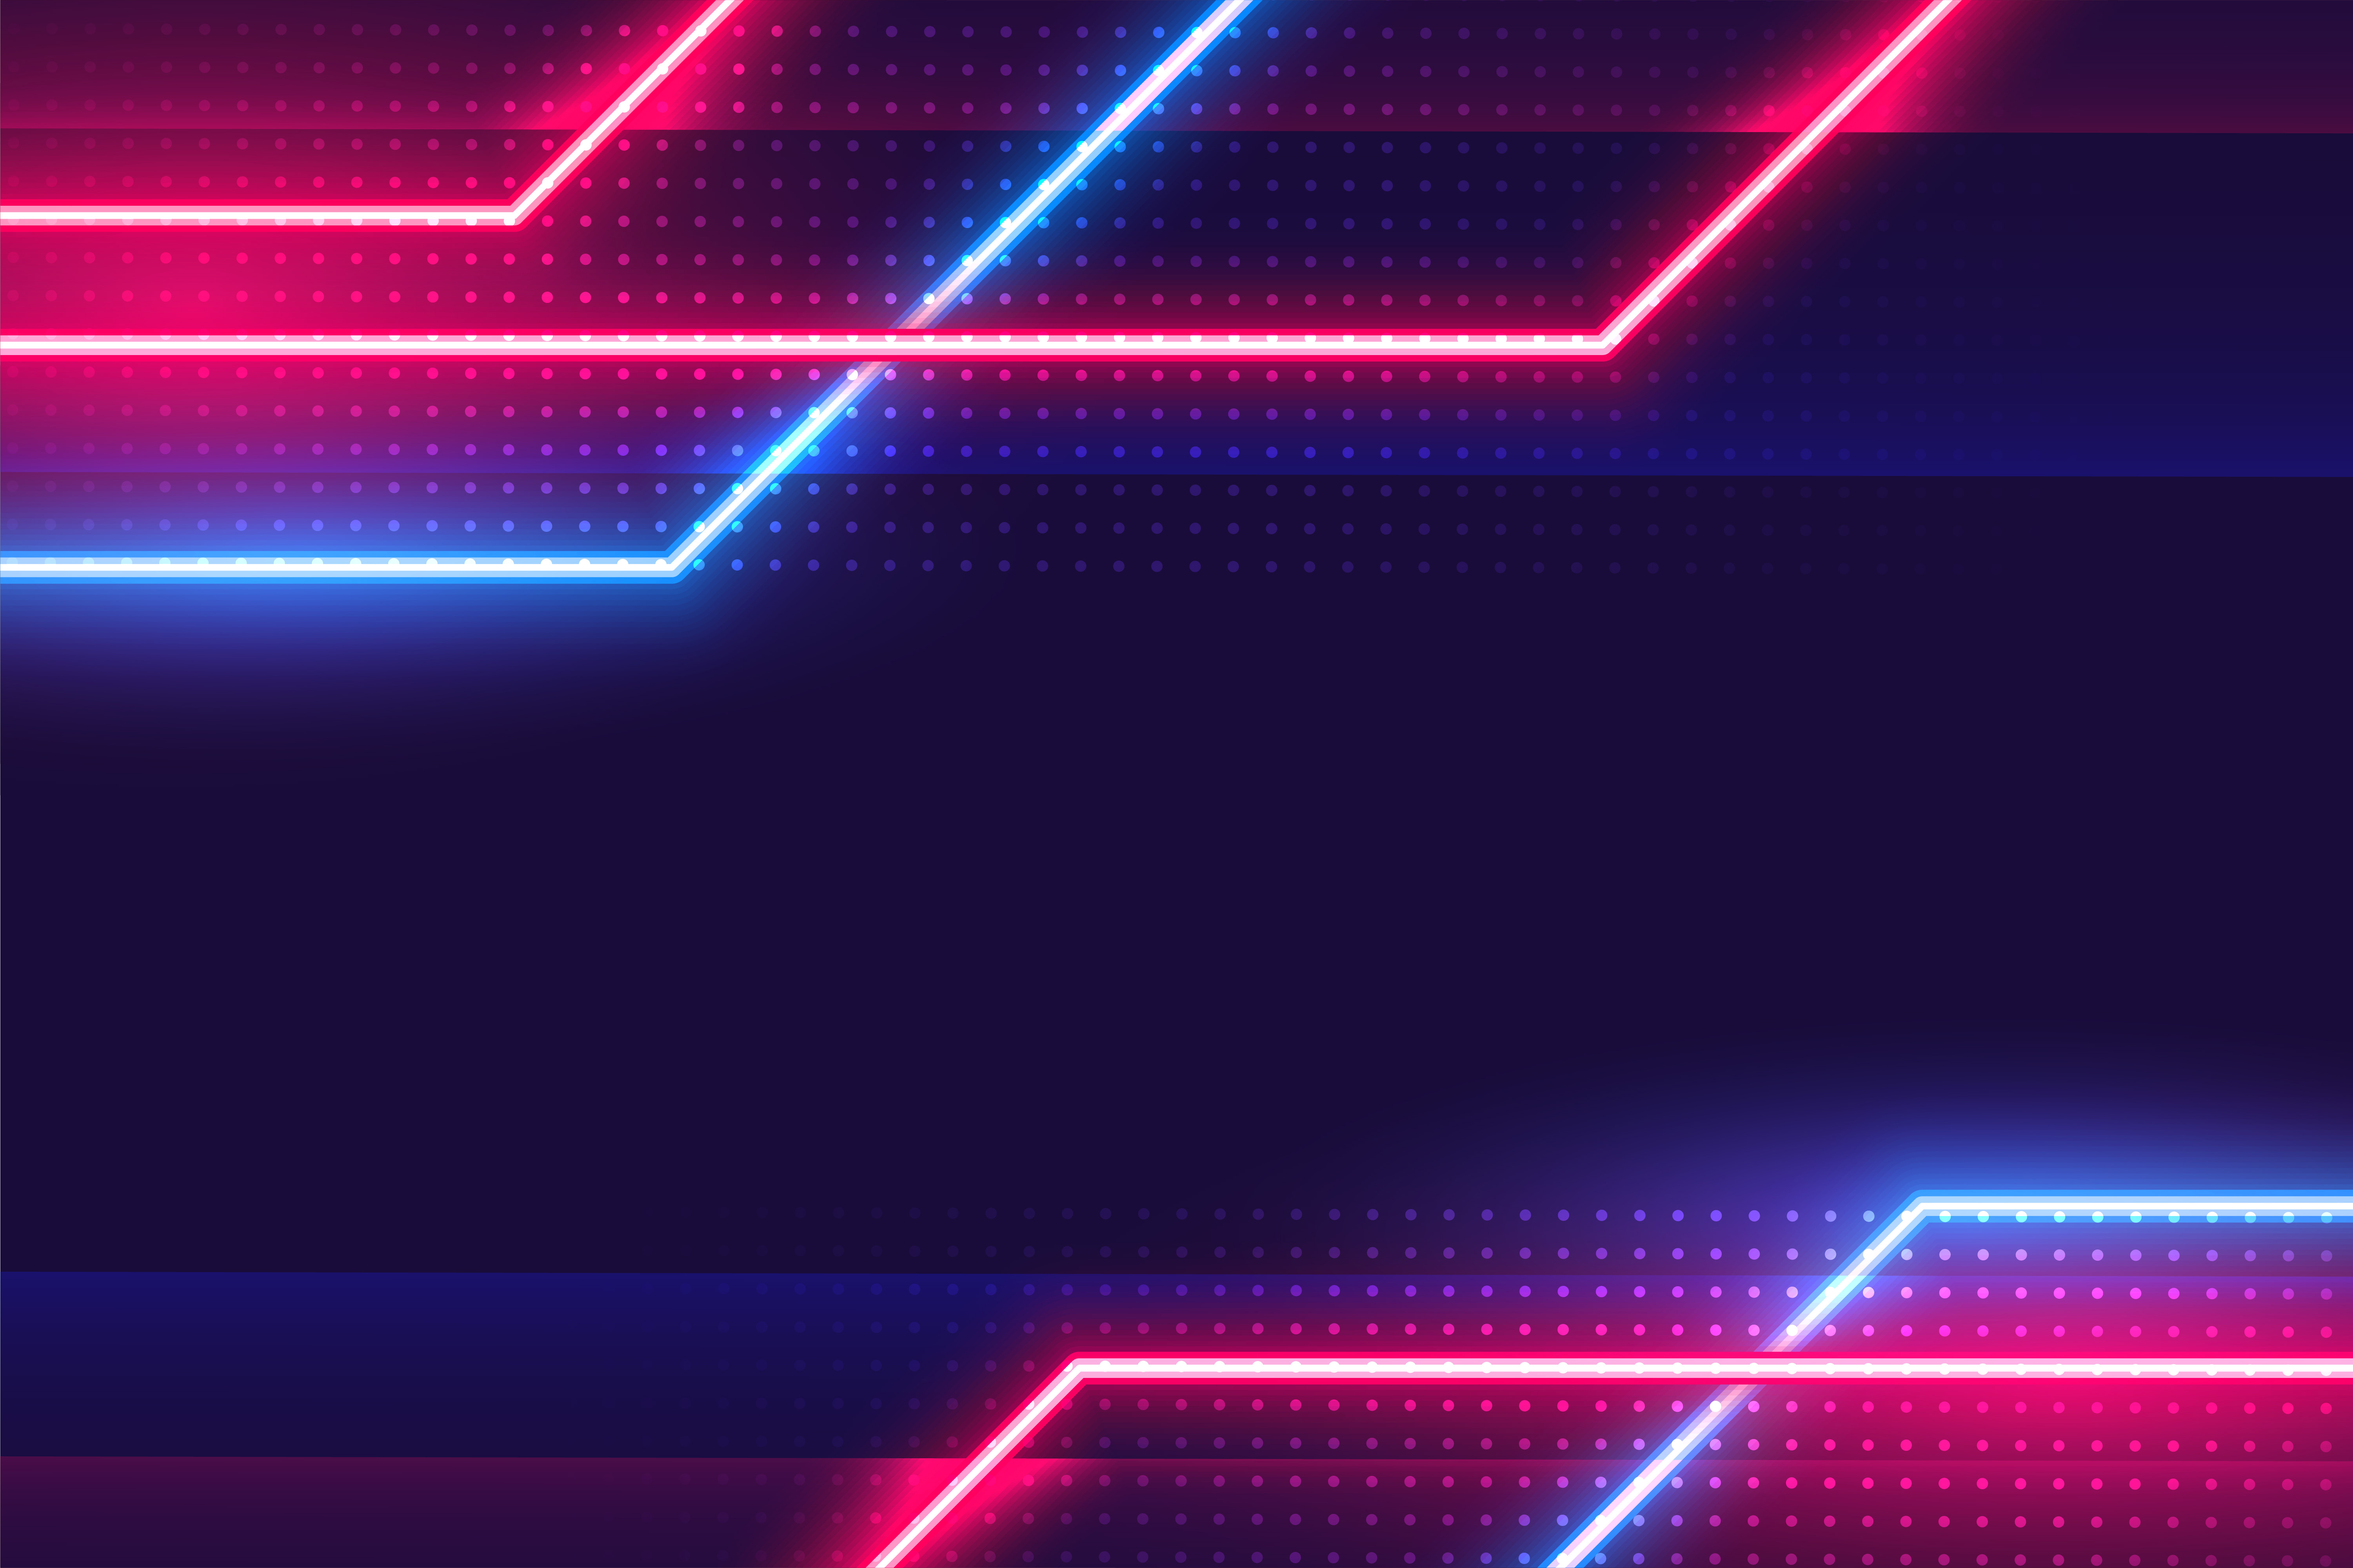
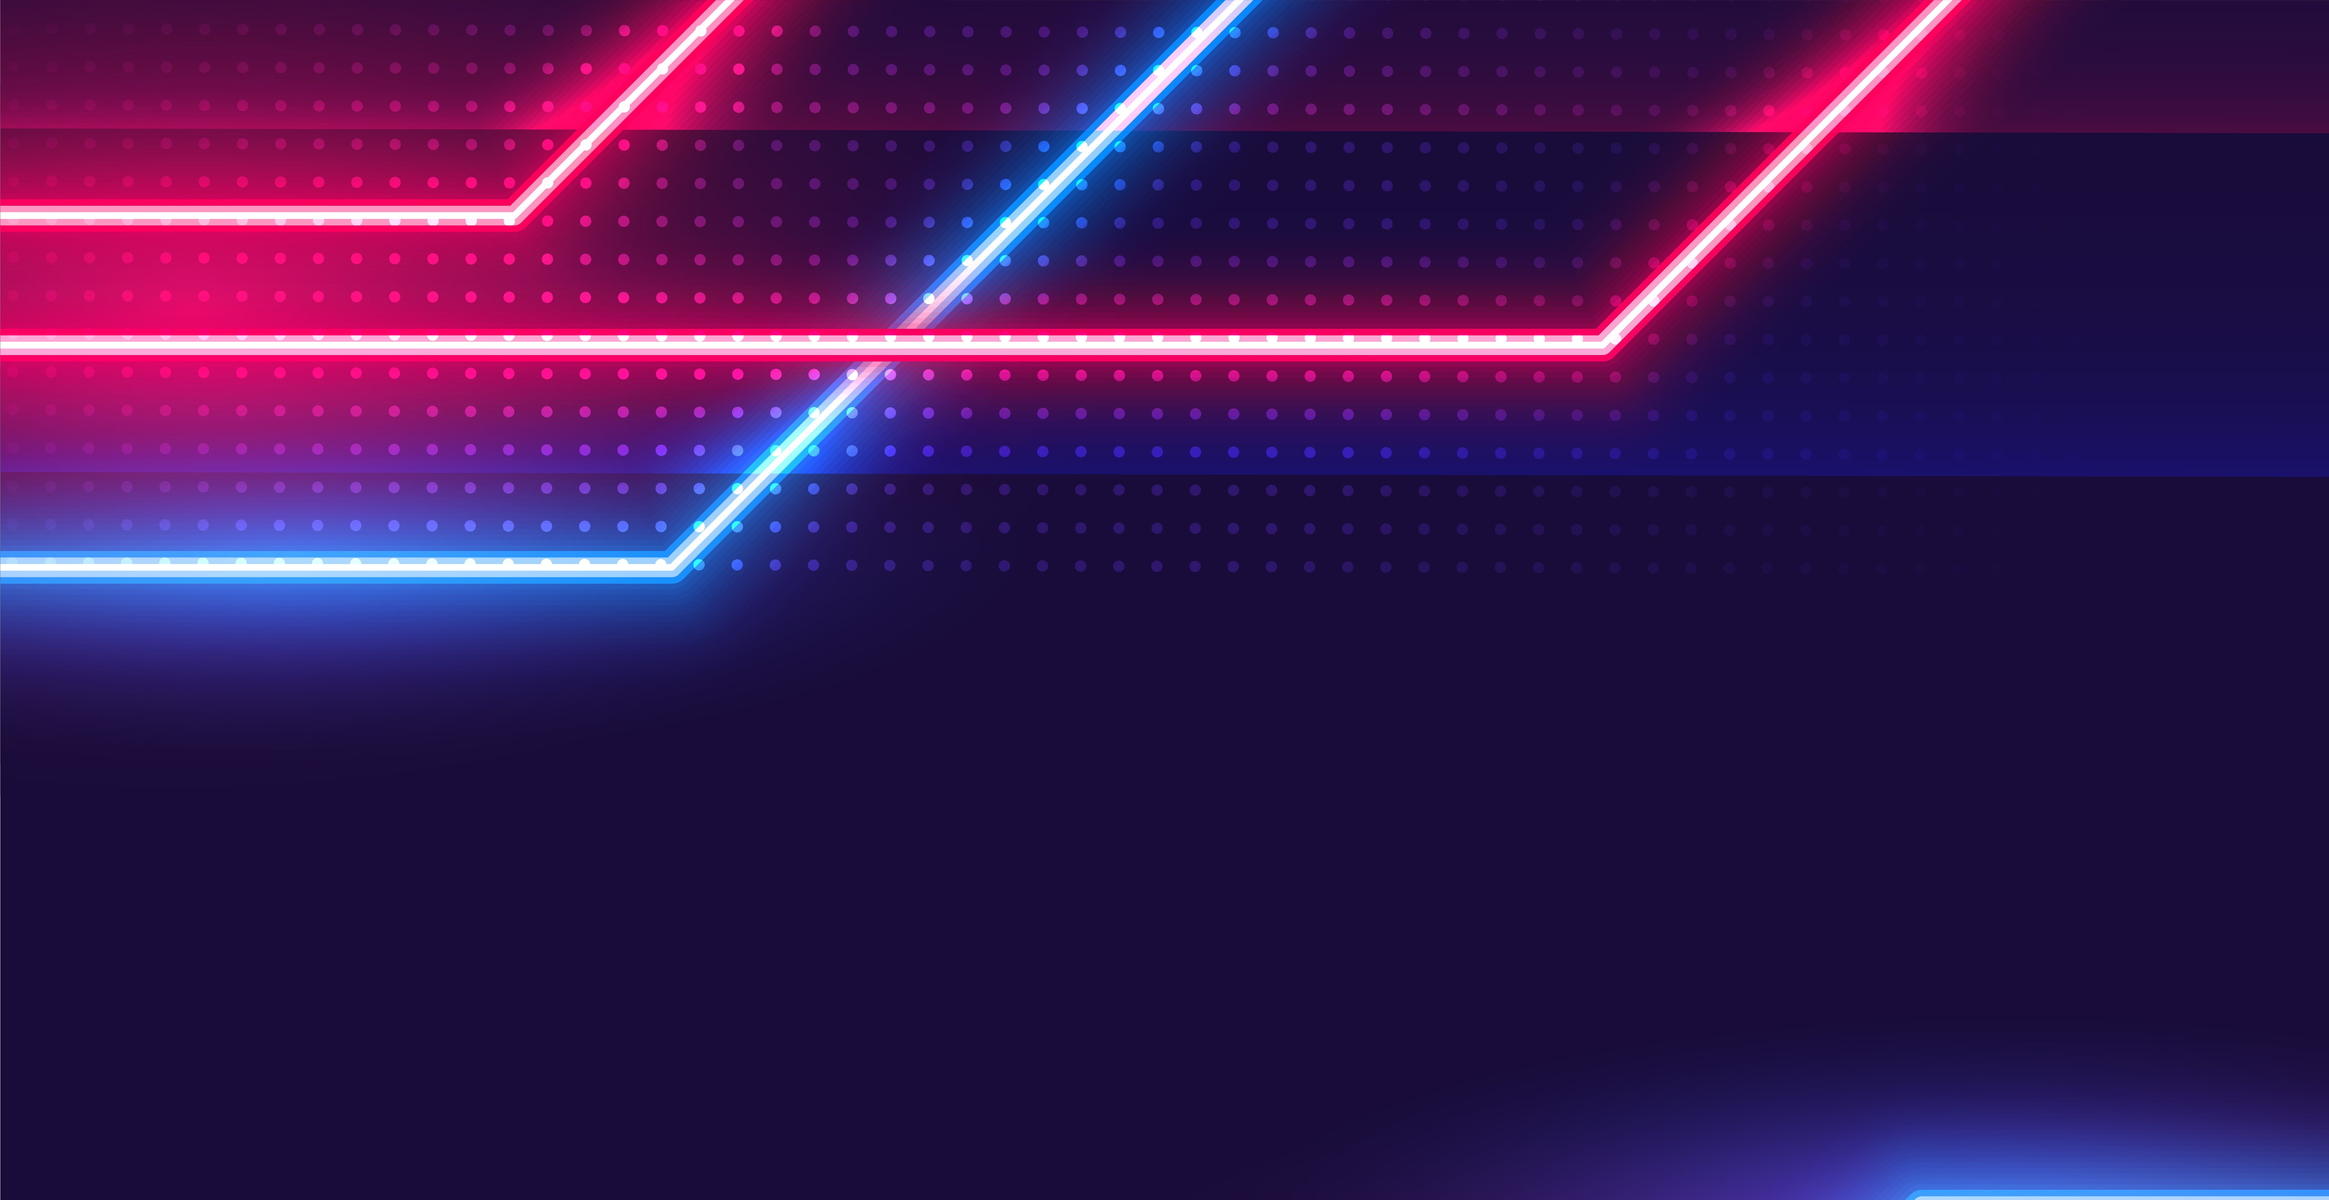
Bouton quitter

diff --git a/client/src/app/pages/game-page/game-page.component.scss b/client/src/app/pages/game-page/game-page.component.scss
@@ -1,3 +1,8 @@
+.bg-img {
+    background: url(/assets/img/Pink_ish.jpg) no-repeat center top;
+    background-size: 100vw 100vh;
+}
+
 .container {
     display: grid;
     grid-template-columns: 0.8fr 1fr 1fr 0.8fr;
@@ -8,11 +13,9 @@
         'Player Board Board Info'
         'Actions Board Board Chat'
         'Quitter Horse Horse Chat';
-    // height: auto;
-    background: url(/assets/img/Pink_ish.jpg) no-repeat center top;
-    background-size: 100vw 130vh;
-    height: 100vh;
-    width: 100vw;
+    // height: 100vh;
+    // width: 100vw;
+    // padding: 1%;
 }
 img {
     grid-area: Img;
@@ -20,15 +23,18 @@ img {
 app-info-box {
     grid-area: Info;
     padding: 1%;
+    padding-right: 2%;
 }
 
 app-chat-box {
     grid-area: Chat;
     padding: 1%;
+    padding-right: 2%;
 }
 app-board {
     grid-area: Board;
     height: fit-content;
+    padding-top: 3%;
     min-width: 50vw;
 }
 
@@ -42,25 +48,33 @@ app-horse {
 app-player-info {
     grid-area: Player;
     padding: 1%;
+    padding-left: 2%;
 }
 
 button {
-    margin: 2%;
+    padding: 2%;
 }
-.button {
+.actions {
     grid-area: Actions;
     display: flex;
     justify-content: flex-start;
     align-self: center;
+    padding-left: 2%;
+    button {
+        margin-left: 5%;
+    }
 }
 
 .abandonner {
     grid-area: Quitter;
-    background-color: var(--error);
-    width: 60%;
     display: flex;
     justify-content: center;
     align-self: center;
     align-items: center;
-    padding: 1%;
+    padding-left: 2%;
+
+    button {
+        width: 60%;
+        background-color: var(--error);
+    }
 }

diff --git a/client/src/app/pages/game-page/game-page.component.html b/client/src/app/pages/game-page/game-page.component.html
@@ -1,12 +1,17 @@
-<div class="container">
-    <img src="/assets/img/logoWhite.png" width="200" height="50" alt="Logo Scrabble" />
-    <app-player-info></app-player-info>
-    <app-info-box></app-info-box>
-    <app-chat-box></app-chat-box>
-    <app-board></app-board>
-    <app-horse></app-horse>
-    <div class="button">
-        <button class="passer" mat-raised-button color="accent" [disabled]="!isItMyTurn" (click)="passer()">Passer</button>
+<div class="bg-img">
+    <div class="container">
+        <img src="/assets/img/logoWhite.png" width="200" height="50" alt="Logo Scrabble" />
+        <app-player-info></app-player-info>
+        <app-info-box></app-info-box>
+        <app-chat-box></app-chat-box>
+        <app-board></app-board>
+        <app-horse></app-horse>
+        <div class="actions">
+            <button mat-raised-button color="accent" [disabled]="!isItMyTurn" (click)="passer()">Passer</button>
+        </div>
+        <div class="abandonner">
+            <button mat-raised-button [routerLink]="['/home']" (click)="abandonner()" *ngIf="!isEndOfGame">Abandonner la partie</button>
+            <button mat-raised-button [routerLink]="['/home']" (click)="abandonner()" *ngIf="isEndOfGame">Quitter</button>
+        </div>
     </div>
-    <button class="abandonner" mat-raised-button [routerLink]="['/home']" (click)="abandonner()">Abandonner la partie</button><br />
 </div>

diff --git a/client/src/app/pages/game-page/board/board.component.html b/client/src/app/pages/game-page/board/board.component.html
@@ -1,17 +1,16 @@
-<div class="border">
-    <div #ScrabbleBoard class="boardContainer">
-        <mat-grid-list cols="16" gutterSize="1.5px" rowHeight="1:1">
-            <mat-grid-tile></mat-grid-tile>
-            <mat-grid-tile *ngFor="let column of board.grid; let i = index">{{ i + 1 }}</mat-grid-tile>
-            <div *ngFor="let row of board.grid; let i = index">
-                <mat-grid-tile>{{ convertASCIIToChar(i) }}</mat-grid-tile>
-                <mat-grid-tile *ngFor="let item of row" class="grid" [style]="getFont()">
-                    <app-tile [tile]="item"></app-tile>
-                </mat-grid-tile>
-            </div>
-        </mat-grid-list>
-    </div>
+<div #ScrabbleBoard class="boardContainer">
+    <mat-grid-list cols="16" gutterSize="1.5px" rowHeight="1:1">
+        <mat-grid-tile></mat-grid-tile>
+        <mat-grid-tile *ngFor="let column of board.grid; let i = index">{{ i + 1 }}</mat-grid-tile>
+        <div *ngFor="let row of board.grid; let i = index">
+            <mat-grid-tile>{{ convertASCIIToChar(i) }}</mat-grid-tile>
+            <mat-grid-tile *ngFor="let item of row" class="grid" [style]="getFont()">
+                <app-tile [tile]="item"></app-tile>
+            </mat-grid-tile>
+        </div>
+    </mat-grid-list>
 </div>
+
 <div class="zoomPolice">
     <span class="fontSizeValue">Taille police</span>
     <mat-slider

diff --git a/client/src/app/pages/game-page/game-page.component.ts b/client/src/app/pages/game-page/game-page.component.ts
@@ -1,4 +1,4 @@
-import { Component } from '@angular/core';
+import { Component, OnInit } from '@angular/core';
 import { Router } from '@angular/router';
 import { ActionValidatorService } from '@app/GameLogic/actions/action-validator.service';
 import { PassTurn } from '@app/GameLogic/actions/pass-turn';
@@ -10,7 +10,7 @@ import { GameManagerService } from '@app/GameLogic/game/games/game-manager.servi
     templateUrl: './game-page.component.html',
     styleUrls: ['./game-page.component.scss'],
 })
-export class GamePageComponent {
+export class GamePageComponent implements OnInit {
     constructor(private gameManager: GameManagerService, public info: GameInfoService, private avs: ActionValidatorService, private router: Router) {
         try {
             this.gameManager.startGame();
@@ -18,7 +18,9 @@ export class GamePageComponent {
             this.router.navigate(['/']);
         }
     }
-
+    ngOnInit() {
+        document.body.classList.add('bg-img');
+    }
     abandonner(): void {
         this.gameManager.stopGame();
     }

diff --git a/client/src/app/components/new-solo-game-form/new-solo-game-form.component.html b/client/src/app/components/new-solo-game-form/new-solo-game-form.component.html
@@ -13,10 +13,17 @@
         </mat-select>
     </mat-form-field>
     <br />
-    <mat-label>Temps par tour: {{ timer.value | date: 'mm:ss' }} </mat-label> <br />
-    <mat-slider #timer [min]="minTimePerTurn" [max]="maxTimePerTurn" [step]="stepTimePerTurn" [formControlName]="'timePerTurn'"></mat-slider><br />
-
-    <!-- {{ soloGameSettingsForm.value.timePerTurn | date: 'mm:ss' }} min -->
+    <mat-label>Temps par tour:</mat-label> <br />
+    <mat-label>{{ timer.value | date: 'm:ss' }} min </mat-label> <br />
+    <mat-slider
+        #timer
+        color="primary"
+        [min]="minTimePerTurn"
+        [max]="maxTimePerTurn"
+        [step]="stepTimePerTurn"
+        [formControlName]="'timePerTurn'"
+    ></mat-slider
+    ><br />
 </mat-dialog-content>
 <br />
 <mat-dialog-actions>

diff --git a/client/src/app/pages/game-page/board/board.component.scss b/client/src/app/pages/game-page/board/board.component.scss
@@ -11,7 +11,7 @@ mat-grid-list {
     display: flex;
     justify-content: space-evenly;
     border: 10px solid var(--brown-choco);
-    border-radius: 0.4rem; //TODO
+    border-radius: 0.3rem;
     background-color: whitesmoke;
 }
 
@@ -20,7 +20,6 @@ mat-slider {
 }
 
 .boardContainer {
-    // height: max-content;
     padding-left: 15%;
     padding-right: 15%;
     max-width: 66vmin;
@@ -31,5 +30,6 @@ mat-slider {
     flex-direction: row;
     justify-content: flex-start;
     align-items: center;
-    color: var(--black-chocolate);
+    padding-left: 15%;
+    color: whitesmoke;
 }

diff --git a/client/src/app/pages/game-page/chat-box/chat-box.component.scss b/client/src/app/pages/game-page/chat-box/chat-box.component.scss
@@ -5,7 +5,6 @@ mat-form-field {
     margin-top: 4%;
     color: whitesmoke;
     width: 95%;
-    // Todo: padding
 }
 .mat-hint {
     &.error {
@@ -15,10 +14,10 @@ mat-form-field {
 .chatContainer {
     display: flex;
     flex-direction: column;
-    justify-content: flex-end;
+    justify-content: center;
 }
 .sharedChat {
-    height: 25vh;
+    height: 30vh;
     overflow-y: scroll;
     overflow-x: hidden;
     scrollbar-width: thin;

diff --git a/client/src/app/pages/game-page/chat-box/chat-box.component.html b/client/src/app/pages/game-page/chat-box/chat-box.component.html
@@ -8,7 +8,6 @@
             {{ message.from }} : {{ message.content }}
         </div>
     </mat-card>
-    <mat-divider inset></mat-divider>
     <form>
         <mat-form-field appearance="fill">
             <input matInput #enter type="text" [formControl]="messageForm" autocomplete="off" (keyup.enter)="sendMessage()" placeholder="Aa" />
